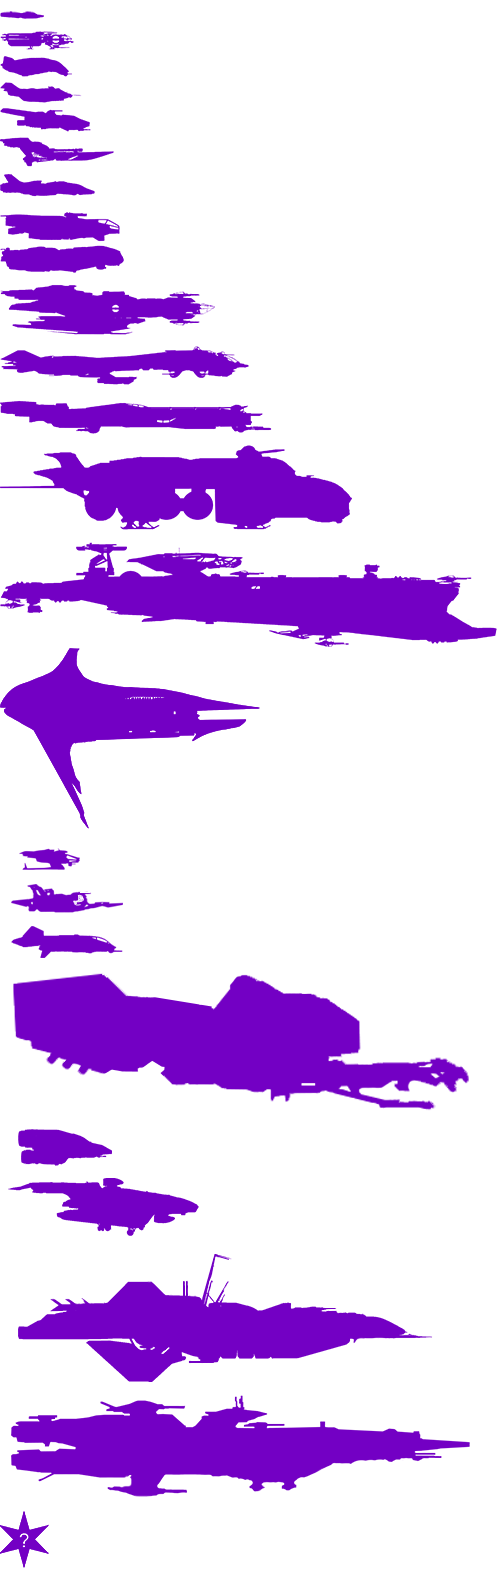
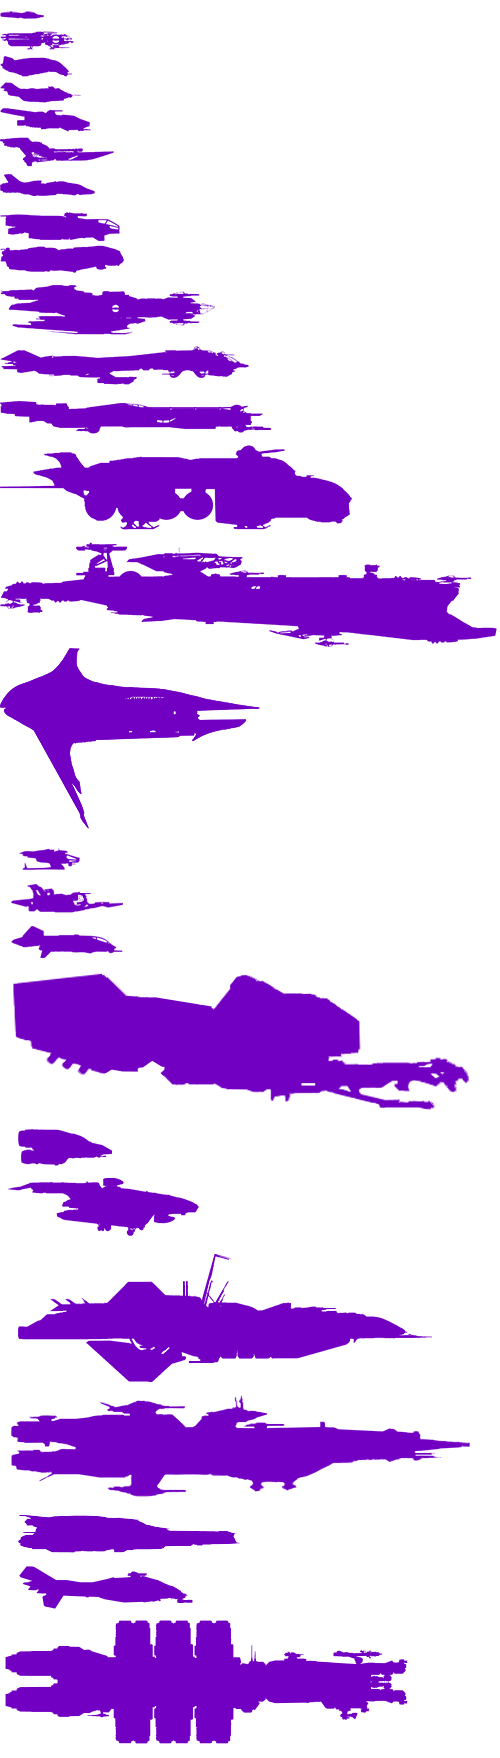
Merging Loganbacca's changes forward

diff --git a/index.html b/index.html
@@ -56,6 +56,8 @@
             <dd><input type="number" id="CutlassShipNumber" data-shipName="Cutlass" data-shipClassName="Cutlass" /></dd>
             <dt>Freelancer</dt>
             <dd><input type="number" id="FreelancerShipNumber" data-shipName="Freelancer" data-shipClassName="Freelancer"/></dd>
+			<dt>Vanguard</td>
+			<dd><input type="number" id="VanguardShipNumber" data-shipName="Vanguard" data-shipClassName="Vanguard"/></dd>
             <dt>Redeemer</td>
 			<dd><input type="number" id="RedeemerShipNumber" data-shipName="Redeemer" data-shipClassName="Redeemer"/></dd>
             <dt>Constellation</dt>
@@ -70,6 +72,9 @@
             <dt>Merchantman</dt>
             <dd><input type="number" id="MerchantmanShipNumber" data-shipname="Merchantman" data-shipclassname="Merchantman" /></dd>
             
+			<dt>890 Jump</dt>
+			<dd><input type="number" id="890JumpShipNumber" data-shipname="890 Jump" data-shipclassname="Jump" /></dd>
+            
             <dt>Starfarer</dt>
             <dd><input type="number" id="StarfarerShipNumber" data-shipName="Starfarer" data-shipClassName="Starfarer"/></dd>
             
@@ -82,6 +87,9 @@
 			
 			<dt>Carrack</td>
 			<dd><input type="number" id="CarrackShipNumber" data-shipName="Carrack" data-shipClassName="Carrack"/></dd>
+			
+			<dt>Orion</td>
+			<dd><input type="number" id="OrionShipNumber" data-shipName="Orion" data-shipClassName="Orion"/></dd>
 			
 			<dt>Javelin</td>
 			<dd><input type="number" id="JavelinShipNumber" data-shipName="Javelin" data-shipClassName="Javelin"/></dd>
@@ -161,7 +169,7 @@
         </dl>
         </fieldset>
         <div class="clear">
-            <a href="#Top">
+            <a href="#">
                 <input type="button" value="Draw my Faction!" id="btnDrawFaction" /> <input type="button" onclick="shipDrawer.ClearShips();" value="Clear" />
             </a>
             <a id="DownloadImageLink" download="FactionShips.png" href="#">Download as Image</a>

diff --git a/content/styles/Ships.css b/content/styles/Ships.css
@@ -139,4 +139,18 @@
     width: 480px;
     background-position: -12px -1388px;
 }
-
+.Jump{
+    height: 38px;
+    width: 222px;
+    background-position: -18px -1515px;
+}
+.Vanguard{
+    height: 43px;
+    width: 174px;
+    background-position: -19px -1566px;
+}
+.Orion{
+    height: 124px;
+    width: 403px;
+    background-position: -5px -1620px;
+}
